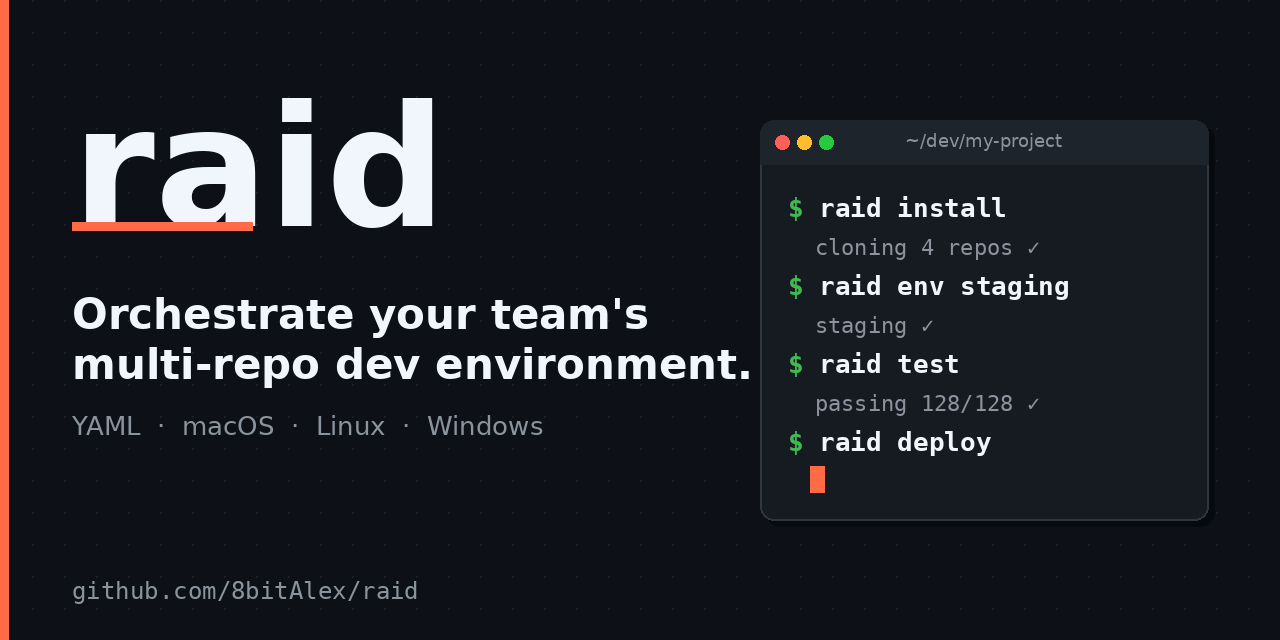
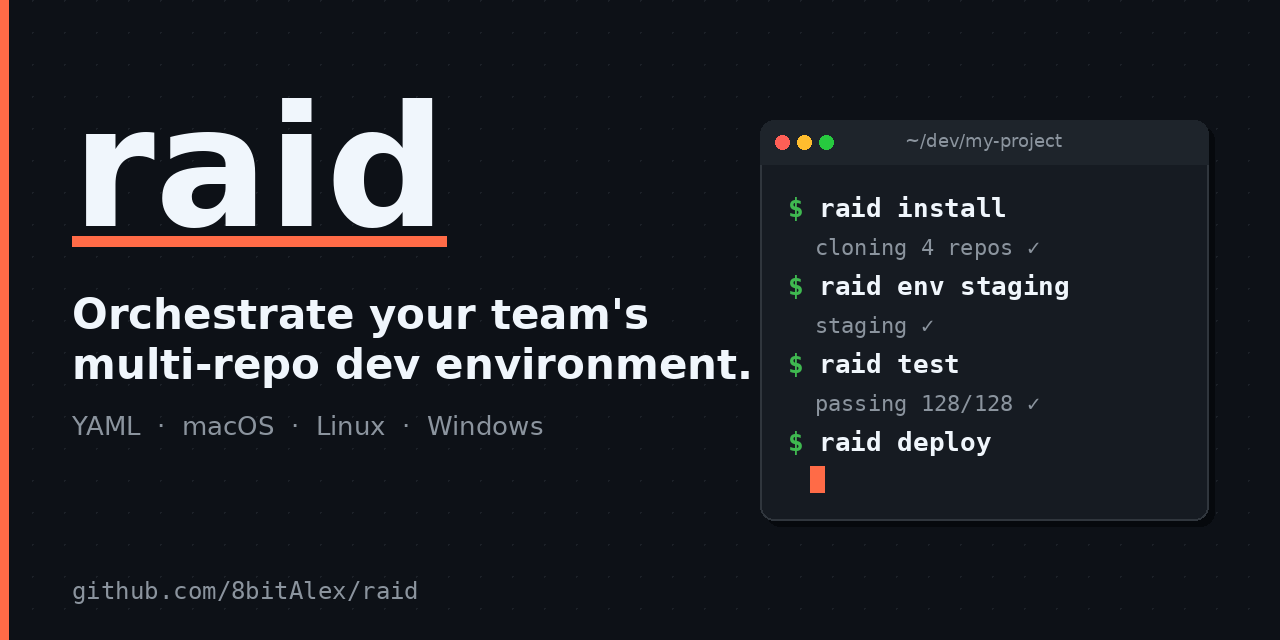
docs(seo): fix wordmark underline width on social preview card
The accent underline was hardcoded to 180px wide, which only covered the
'r' and part of the 'a' since 'raid' at 168pt is ~374px. Now derives the
width from the actual text bbox so it spans the full wordmark, and
positions it 8px below the baseline instead of crashing into the letters.

Changed region(s): [[0.0312, 0.3438, 0.3438, 0.4062]]

diff --git a/docs/assets/gen_social_preview.py b/docs/assets/gen_social_preview.py
@@ -44,12 +44,16 @@ f_tag_sm  = ImageFont.truetype(SANS, 26)
 f_url     = ImageFont.truetype(MONO, 24)
 
 # Wordmark
-d.text((LEFT, 70), "raid", font=f_mark, fill=FG)
+WORD_XY = (LEFT, 70)
+d.text(WORD_XY, "raid", font=f_mark, fill=FG)
 
-# Colored underline beneath the wordmark
-bbox = d.textbbox((LEFT, 70), "raid", font=f_mark)
-ul_y = bbox[3] - 6
-d.rectangle([LEFT, ul_y, LEFT + 180, ul_y + 8], fill=ACCENT)
+# Colored accent underline — full width of the wordmark, sitting just below
+# the baseline. Uses the actual text bbox so the line matches the letter
+# width instead of a hardcoded guess.
+wm_bbox = d.textbbox(WORD_XY, "raid", font=f_mark)
+ul_y1 = wm_bbox[3] + 8
+ul_y2 = ul_y1 + 10
+d.rectangle([wm_bbox[0], ul_y1, wm_bbox[2], ul_y2], fill=ACCENT)
 
 # Tagline (two-line) — must fit to the left of the terminal panel (x < 760)
 d.text((LEFT, 290), "Orchestrate your team's", font=f_tag_big, fill=FG)
